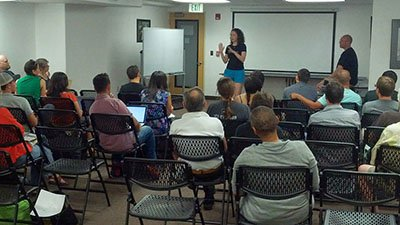
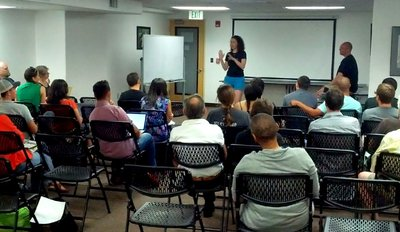
Autogenerate optimized images on build with size
In the previous commit (bbc7d7307185bd8ce4cae35a57cc2de37653818e), I
introduced a pipeline for optimizing the images on every build so that
we could retain the high-quality source images in a separate folder and
keep them after optimization. The reason for doing this is so that we
can make changes to how we use those images without losing the source.

In this commit, I have enhanced that build process so that we can
specify the final image dimensions for the optimized copies. This is
important because if we want to start with a high-resolution version of
an image, we need to specify what the final size ought to be.

Size specification happens by ending the name of a source image with a
dash and then optionally the width, optionally followed by 'x' and the
height constraints.

	- "image.jpg" --> use original size but limit longest edge to 1600
	  pixels
	- "image-400.jpg" --> scale to set width to 400px and maintain
	  aspect ratio
	- "image-x200.jpg" --> scale to set height to 200px and maintain
	  aspect ratio
	- "image-400x200.jpg" --> scale and force height and width, butchers
	  aspect ratio

diff --git a/blog/_posts/2013-12-12-techlady-hackathon-recap.html b/blog/_posts/2013-12-12-techlady-hackathon-recap.html
@@ -9,37 +9,37 @@ categories: blog
 ---
 
 <p>
-On Saturday, over 100 women attended the <a href="http://hackathontrainingday.org/">TechLady Hackathon + Training Day</a>, an all-day learning event and the first women-only hackathon in DC. Code for DC champion Leah Bannon kicked off the program by explaining to the group why she’d organized it: “I go to a lot of hackathons and I’ve really benefited from them.. but I’m always one of only a few women there.” 
+On Saturday, over 100 women attended the <a href="http://hackathontrainingday.org/">TechLady Hackathon + Training Day</a>, an all-day learning event and the first women-only hackathon in DC. Code for DC champion Leah Bannon kicked off the program by explaining to the group why she’d organized it: “I go to a lot of hackathons and I’ve really benefited from them.. but I’m always one of only a few women there.”
 </p>
 <p>
 The idea for this event was to gather women in a supportive environment for an introduction to a variety of tech skills and to recruit them to attend more DC tech events and hackathons.
 </p>
 <p>
-After introductions, the classes quickly filled while hackers started working on a range of projects: the <a href="http://eiti.org/">Extractive Industry Transparency Initiative</a> Open Data Project, data visualizations for the <a href="http://feedthefuture.gov/article/release-womens-empowerment-agriculture-index">Women's Empowerment in Agriculture Index</a>, Code for DC’s <a href="http://www.ancbrigade.com">ANC Brigade</a>, continuing art games created at The Smithsonian American Art Museum’s recent hackathon, <a href="http://shutthatdown.com/">ShutThatDown.com</a>, Health and Human Services datasets, and GIS mapping in conflict zones. 
+After introductions, the classes quickly filled while hackers started working on a range of projects: the <a href="http://eiti.org/">Extractive Industry Transparency Initiative</a> Open Data Project, data visualizations for the <a href="http://feedthefuture.gov/article/release-womens-empowerment-agriculture-index">Women's Empowerment in Agriculture Index</a>, Code for DC’s <a href="http://www.ancbrigade.com">ANC Brigade</a>, continuing art games created at The Smithsonian American Art Museum’s recent hackathon, <a href="http://shutthatdown.com/">ShutThatDown.com</a>, Health and Human Services datasets, and GIS mapping in conflict zones.
 </p>
 <p>
-As the day progressed, a few take-aways emerged. 
+As the day progressed, a few take-aways emerged.
 </p>
 <p>
 Women want training. Technical classes took place throughout the day including sessions on HTML+CSS, APIs, Python, Ruby, SQL, Github, and open data.  All were packed beyond capacity.  As were the two nontechnical classes, both tailored to encourage community: one on imposter syndrome, the other an hour devoted to mentoring and career building. Though classes covered a range of topics, several participants expressed an interest in more. Organizers heard requests for Photoshop and Illustrator, taxonomies, and intermediate-level coding classes.
 </p>
-<p> 
+<p>
 This was the first hackathon for at least half of participants. By the end of the day, many said they couldn’t wait to attend another. For those looking to get involved, <a href="http://www.meetup.com/code-for-dc">the next Code for DC meetup</a> is a great place to start!
 </p>
 <span class="blog-img-wrapper">
-	<img src="https://raw.github.com/leahbannon/hackathontrainingday/gh-pages/images/techlady-22830.jpg" />
+	<img src="{{ site.baseurl }}/assets/images/techlady-200.jpg" />
 </span>
 <p>
-Many participants expressed relief at the supportive environment. With people representing a range of expertise levels and areas in attendance, asking questions was encouraged. And it led to breakthroughs. After the HTML+CSS class, one participant announced she fixed a bug on her website that had been bothering her for months. Light bulbs were observed turning on throughout the day. 
+Many participants expressed relief at the supportive environment. With people representing a range of expertise levels and areas in attendance, asking questions was encouraged. And it led to breakthroughs. After the HTML+CSS class, one participant announced she fixed a bug on her website that had been bothering her for months. Light bulbs were observed turning on throughout the day.
 </p>
 <p>
-This was also a fairly diverse gathering in many senses. Women of all professional backgrounds, from experts in their field to those who were considering a career switch, were there to get more involved in technical projects. Participants of all ages and several moms joined in the fun, including a few with kids in tow. 
+This was also a fairly diverse gathering in many senses. Women of all professional backgrounds, from experts in their field to those who were considering a career switch, were there to get more involved in technical projects. Participants of all ages and several moms joined in the fun, including a few with kids in tow.
 </p>
 <p>
-So what happens now?  We want to make the #TechLady Hackathon a regular event that continues to meet demand. Do you have ideas for making the next one even better? Add them to the <a href="https://techlady.hackpad.com/">hackpad</a>, or submit your ideas <a href="http://hackathontrainingday.org/feedback.html">anonymously</a>. 
+So what happens now?  We want to make the #TechLady Hackathon a regular event that continues to meet demand. Do you have ideas for making the next one even better? Add them to the <a href="https://techlady.hackpad.com/">hackpad</a>, or submit your ideas <a href="http://hackathontrainingday.org/feedback.html">anonymously</a>.
 </p>
 <p>
-We couldn’t have pulled off such a great event without our awesome sponsors. Many thanks to <a href="http://www.irex.org/">IREX</a>, <a href="http://www.github.com">Github</a>, <a href="http://www.govtrack.us">Govtrack</a>, <a href="http://www.mapbox.com">MapBox</a>, <a href="http://www.sunlightfoundation.com">The Sunlight Foundation</a>, and <a href="http://neworganizing.com/">The New Organizing Institute</a>. 
+We couldn’t have pulled off such a great event without our awesome sponsors. Many thanks to <a href="http://www.irex.org/">IREX</a>, <a href="http://www.github.com">Github</a>, <a href="http://www.govtrack.us">Govtrack</a>, <a href="http://www.mapbox.com">MapBox</a>, <a href="http://www.sunlightfoundation.com">The Sunlight Foundation</a>, and <a href="http://neworganizing.com/">The New Organizing Institute</a>.
 </p>
 <p>
 <br/>

diff --git a/pages/index.html b/pages/index.html
@@ -6,7 +6,7 @@ slug: home
 ---
 
 <div class="col-lg-12 hero">
-	<div class="hero-text"><img src="{{ site.baseurl }}/{{ site.img_dir }}/CodeForTucson_logo_dark.png" alt="Code for Tucson logo"><h1>Code for Tucson</h1></div>
+	<div class="hero-text"><img src="{{ site.baseurl }}/{{ site.img_dir }}/CodeForTucson_logo_dark-x200.png" alt="Code for Tucson logo"><h1>Code for Tucson</h1></div>
 </div>
 
 <div class="container center-home home">
@@ -21,20 +21,20 @@ slug: home
 	<div class="row">
 
 		<div class="col-lg-4">
-			<h2><img src="{{ site.baseurl }}/{{ site.img_dir }}/captain.png" alt="Code for America Brigade Captain Helmet" class="call-out-img" />Come to our next meeting</h2>
+			<h2><img src="{{ site.baseurl }}/{{ site.img_dir }}/captain-x70.png" alt="Code for America Brigade Captain Helmet" class="call-out-img" />Come to our next meeting</h2>
 			<p>First and third Tuesdays. Casual meetups for geeks, activists, policy makers, and journalists.</p>
 			<p><a href="http://www.meetup.com/Code-for-Tucson/" target="_blank">Our calendar &raquo;</a></p>
 		</div>
 
 		<div class="col-lg-4">
-			<h2><img src="{{ site.baseurl }}/{{ site.img_dir }}/community.png" alt="Community" class="call-out-img" />Join the discussion</h2>
+			<h2><img src="{{ site.baseurl }}/{{ site.img_dir }}/community-x70.png" alt="Community" class="call-out-img" />Join the discussion</h2>
 			<p>An open conversation online about Tucson, what we're doing now, and what's next.
 			</p>
 			<p><a href="http://www.meetup.com/Code-for-Tucson/messages/boards/">Learn and share &raquo;</a></p>
     </div>
 
 		<div class="col-lg-4">
-			<h2><img src="{{ site.baseurl }}/{{ site.img_dir }}/octocat.png" alt="GitHub Octocat" class="call-out-img" />Join a project or start your own</h2>
+			<h2><img src="{{ site.baseurl }}/{{ site.img_dir }}/octocat-x70.png" alt="GitHub Octocat" class="call-out-img" />Join a project or start your own</h2>
 			<p>Whether you're a communicator or a coder, we need you. Jump right in!</a>
 			</p>
 			<p><a href="/projects/">Find a project &raquo;</a></p>
@@ -52,7 +52,7 @@ slug: home
 	      <article class="projects row">
 
 	      	<div class="col-lg-4">
-		        <img {% if project.image %} src="{{ site.baseurl }}{{ project.image }}"{% else %}src="{{ site.baseurl }}/assets/images/captain.png"{% endif %} alt="{{project.project}}">
+		        <img {% if project.image %} src="{{ site.baseurl }}{{ project.image }}"{% else %}src="{{ site.baseurl }}/assets/images/captain-x188.png"{% endif %} alt="{{project.project}}">
 		      </div>
 
 					<div class="col-lg-8">

diff --git a/pages/projects.html b/pages/projects.html
@@ -11,7 +11,7 @@ slug: projects
       <article class="projects row">
 
       	<div class="col-lg-4">
-        	<img {% if project.image %} src="{{ site.baseurl }}{{ project.image }}"{% else %}src="{{ site.baseurl }}/assets/images/captain.png"{% endif %} alt="{{project.project}}">
+        	<img {% if project.image %} src="{{ site.baseurl }}{{ project.image }}"{% else %}src="{{ site.baseurl }}/assets/images/captain-x188.png"{% endif %} alt="{{project.project}}">
         </div>
 
         <div class="col-lg-8">

diff --git a/_layouts/subpage.html b/_layouts/subpage.html
@@ -11,7 +11,7 @@
     {% include navbar.html %}
 
     <div class="col-lg-12 hero">
-			<div class="hero-text"><img src="{{ site.baseurl }}/{{ site.img_dir }}/CodeForTucson_logo_dark.png" alt="Code for Tucson logo"><h1>Code for Tucson</h1></div>
+			<div class="hero-text"><img src="{{ site.baseurl }}/{{ site.img_dir }}/CodeForTucson_logo_dark-x200.png" alt="Code for Tucson logo"><h1>Code for Tucson</h1></div>
 		</div>
 
 		<div class="container center-home">

diff --git a/assets/_sass/_custom.scss b/assets/_sass/_custom.scss
@@ -121,7 +121,7 @@ height: 100%;
 /***************************/
 
 .hero {
-    background: url($site-baseurl + '/assets/images/hero_bg_op.jpg');
+    background: url($site-baseurl + '/assets/images/hero_bg-1600.jpg');
     background-size: cover;
     min-height: 200px;
     min-width: 400px;

diff --git a/README.md b/README.md
@@ -36,7 +36,8 @@ If you want more information on getting started with Ruby development, STOP RIGH
 We depend on a couple of tools to optimize the assets during the build process and you will need to make sure that they are installed.
 
  * `ImageMagick` - used to resize images
- * `jpegoptim` - used to optimize the encoding of JPEG images
+ * `jpegoptim` - used to optimize JPEG images
+ * `pngcrush` - used to optimize PNG images
 
 If you are running OSX, you can use [brew](brew.sh) to install these packages.
 
@@ -69,12 +70,31 @@ You should now be able to visit [http://localhost:4000/](http://localhost:4000/)
 
 Getting started with **git** can be confusing if you haven't worked with it before. If this describes how you feel, check out [a non-programmers intro to **git**](http://blog.scottlowe.org/2015/01/14/non-programmer-git-intro/), then [the simple guide](http://rogerdudler.github.io/git-guide/) for an overview of a **git** workflow, and Code School's [interactive **git** tutorial](https://try.github.io/levels/1/challenges/1).
 
-<!-- ###Special pages:
-+ Press page uses /data/press.csv to populate its press listing (but not the press releases, which are hard-coded)
-+ Blog pages are built programmatically using Jekyll from the entries in the /blog/_posts directory.  There is similar content in the /blog/drafts directory, but these entries are working copies only that are not displayed on teh public website. -->
-
 #### Hacking images
 
 Save high-resolution or high-quality images inside the `source_assets/images` folder and don't worry about optimizing them. Reference those images as if you had saved them inside the `assets/images` folder. Each time you generate the site, the build script will copy over any new or changed images into the `assets/images` folder, maintaining the directory structure, and optimized the images for you.
 
 Make sure to build the site before checking in and add the new image itself as well as its optimized counterpart into your `git` commit. If you only need to generate the images, you can run `make optimized-images` instead of `make`.
+
+For example, if you wanted to add a new image called `MiceAndMen.jpg` to the project, here's what you would do:
+
++ Decide if you want the image to display at a specific size. The build script will allow us to store a full-resolution source and still trim it down each time we generate the site. In this case, let's say we will want the final image to be 400px wide.
++ If setting a final image size, save the image with a dash and then the size before the image extension:
+	+ `MiceAndMen.jpg` - Keep the size the same as in the source image (actually, this limits the largest dimension to 1600 pixels to keep a sane size)
+	+ `MiceAndMen-400.jpg` - Scale so that the width will be 400px (maintain aspect ratio)
+	+ `MiceAndMen-x200.jpg` - Scale so that the height will be 200px (maintain aspect ratio)
+	+ `MiceAndMen-400x200.jgp` - Scale and force into 400x200px size (butchers aspect ratio)
++ Save that image in the source directory:
+```html
+source_assets/images/MiceAndMen-400.jpg
+```
++ Reference the image in your blog or page as if it were in the final assets directory:
+```html
+<img src="{{ site.baseurl }}/assets/images/MiceAndMen-400.jpg" />
+```
++ Run the build script `make` or just the asset generator `make optimized-images` and it will transfer the high-quality source images into their optimized counterparts.
+
+###Special pages:
++ Press page uses /data/press.csv to populate its press listing (but not the press releases, which are hard-coded)
++ Projects page uses /data/projects.csv to populate the projects listing.
++ Blog pages are built programmatically using Jekyll from the entries in the /blog/_posts directory.  There is similar content in the /blog/drafts directory, but these entries are working copies only that are not displayed on teh public website.
